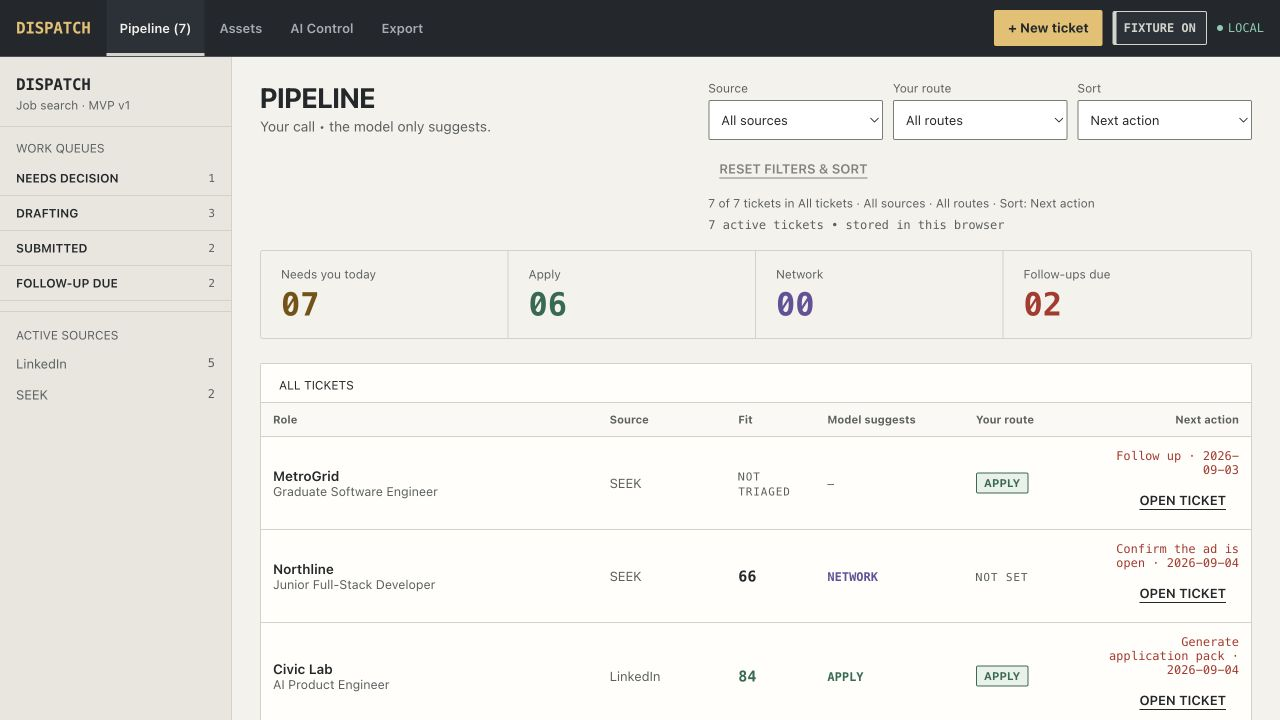
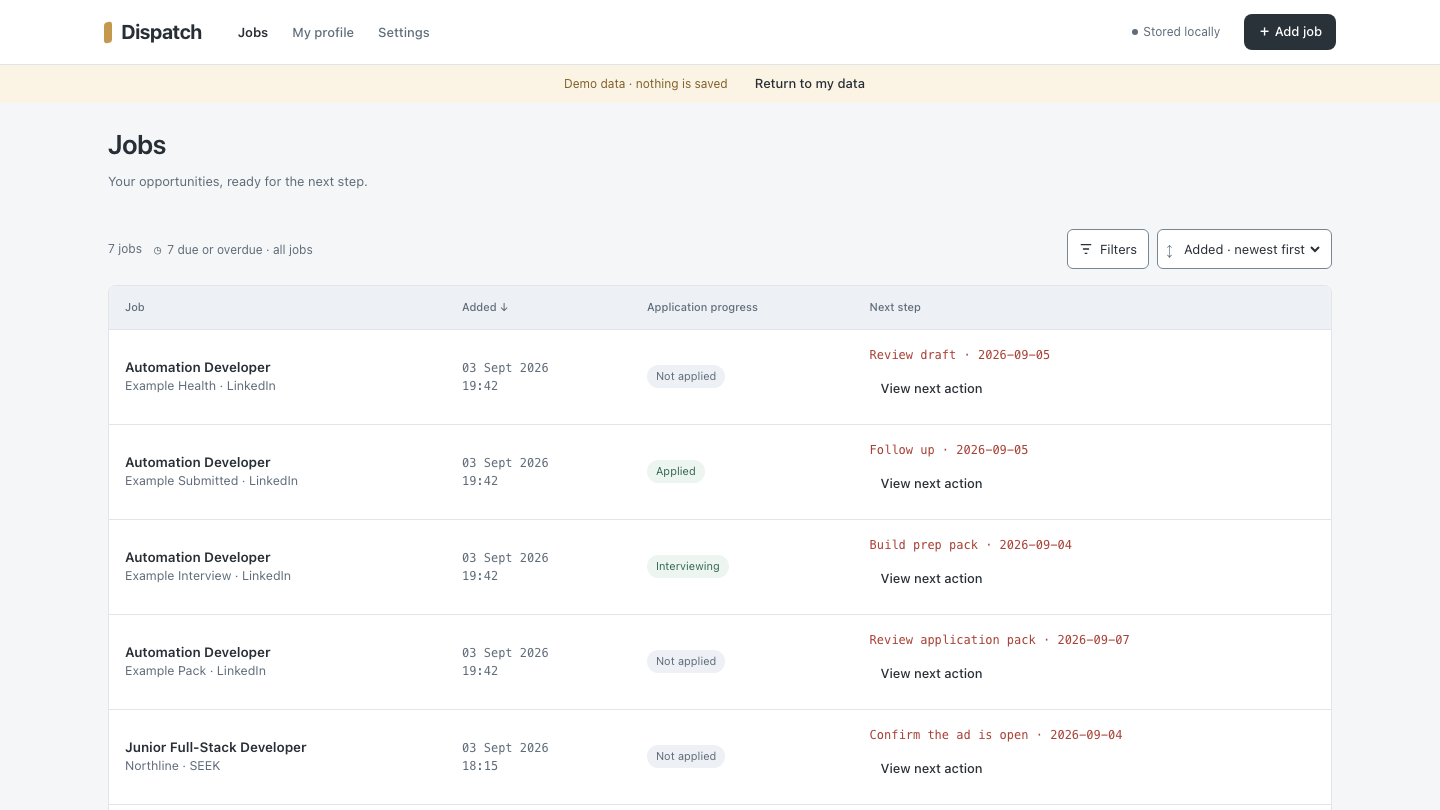
Refresh Dispatch portfolio for typed workspace and UI v1

diff --git a/src/constants/caseStudies.js b/src/constants/caseStudies.js
@@ -17,7 +17,7 @@ export const DISPATCH_CASE_STUDY = {
   ownership: "Built and iterated as a personal project · 2026 · Private source repository",
   metaTitle: "Job Search Dispatch case study | Yuelin Liu",
   metaDescription:
-    "How I connected a browser bridge, evidence-scoped drafting and recoverable model operations into a local job-search workflow, with human review before submission.",
+    "How I evolved a browser bridge and evidence-grounded drafting into a typed local workspace, with configurable model roles and a document-focused review experience.",
   canonical: `${SITE_URL}/work/job-search-dispatch/`,
   sections: [
     {
@@ -26,7 +26,7 @@ export const DISPATCH_CASE_STUDY = {
       heading: "The problem: continuity between finding a job and applying",
       paragraphs: [
         "A job-search workflow crosses several disconnected surfaces: the job board, a record of past work, a model conversation, an application draft and a follow-up list. The difficult part is carrying the right facts and decisions between them without losing the original ad or letting a fluent draft overstate the applicant's experience.",
-        "I developed Job Search Dispatch from an AI-generated React MVP into an integrated local application. The work spans a Node.js server, a Chrome browser bridge, reusable evidence records, model routing and the review experience. A ticket holds the job, the model's recommendation, the applicant's decision and the resulting materials together.",
+        "I developed Job Search Dispatch from an AI-generated React MVP into an integrated local application. The current application uses React, Vite and TypeScript, a local Node.js server and a JavaScript Chrome extension. Jobs, My profile and Settings separate daily application work, reusable candidate evidence and model configuration. A ticket keeps the original ad, assessment, application materials and progress together.",
       ],
     },
     {
@@ -43,23 +43,23 @@ export const DISPATCH_CASE_STUDY = {
         },
         {
           step: "02",
-          label: "Separate a recommendation from a decision",
+          label: "Keep recommendations separate from application progress",
           detail:
-            "Triage returns structured job details, fit, gaps and an APPLY, NETWORK or SKIP suggestion using confirmed candidate records. The applicant chooses the route. Pipeline queues surface tickets awaiting a decision, drafts in progress and follow-ups due.",
-          source: "Confirmed evidence → model suggestion → human route choice",
+            "Triage returns structured job details, fit, gaps and a route suggestion using confirmed candidate records. The Jobs list follows original creation order and shows actual application progress with a contextual Continue action. Source and progress filters narrow the list; drafting no longer requires a separate APPLY decision.",
+          source: "Confirmed evidence → assessment → applicant-controlled progress",
         },
         {
           step: "03",
           label: "Draft with evidence, then check the result",
           detail:
-            "Application drafting uses confirmed evidence explicitly allowed for that purpose. The cover-letter writer is followed by a separate verifier call and deterministic validation. A hard validation failure permits one targeted repair; a result that still fails is not saved as the new letter.",
-          source: "Writer → verifier → validation → at most one repair",
+            "Application drafting uses confirmed evidence explicitly allowed for that purpose. Writer only is the default and must pass deterministic hard checks. An optional Verifier adds a model review; with Repair also enabled, a hard verifier failure permits at most one targeted repair. A result that still fails is not saved as the new letter.",
+          source: "Writer → optional Verifier → validation → optional bounded Repair",
         },
         {
           step: "04",
           label: "Keep the last mile human",
           detail:
-            "The applicant can inspect paragraph evidence, edit the letter, review model-call details and copy clean text. Submission stays manual. The workspace keeps the ticket and next action available for the follow-up.",
+            "The letter opens as a continuous document. Selecting a paragraph reveals its cited evidence; a separate editor saves changes, and run details expose the model calls and available cost estimates. The applicant reviews and copies clean text for manual submission, then records progress and reminders in the same ticket.",
           source: "Review → edit → copy → manual submission",
         },
       ],
@@ -86,10 +86,20 @@ export const DISPATCH_CASE_STUDY = {
         {
           decision: "Treat model calls as operations that can fail",
           reason:
-            "Stage and trace diagnostics, server-owned deadlines and cancellation make a long-running call inspectable. Failed or cancelled attempts preserve existing work. Writer, verifier and optional repair receipts explain which calls ran and what cost information is available.",
+            "Stage and trace diagnostics, server-owned deadlines and cancellation make a long-running call inspectable. Failed or cancelled attempts preserve existing work. Writer and any enabled Verifier or Repair receipts explain which calls ran and what cost information is available. Effective routes are validated before drafting and frozen for the run.",
           tradeoff:
-            "A successful cover-letter run uses two model calls, or three with repair. The fixed Anthropic review route requires its own credential even when the writer uses a custom provider; available cost figures are estimates rather than invoices.",
+            "Writer only uses one model call; an enabled Verifier adds a second and conditional Repair can add a third. Roles can follow the preceding route or use their own configured provider. Extra review costs time and tokens, and displayed costs remain estimates rather than invoices.",
         },
+      ],
+    },
+    {
+      kind: "prose",
+      id: "workspace-evolution",
+      heading: "Evolving the workspace without losing saved work",
+      paragraphs: [
+        "I migrated the no-build prototype to a bundled Vite frontend and strict TypeScript across the application and server, with shared Zod boundary contracts. Feature modules, state owners and persistence adapters now have separate responsibilities. Existing browser storage keys, saved routes and unknown fields remain compatible; the extension stays JavaScript.",
+        "The new interface reduces daily work to Jobs, My profile and Settings. Each ticket has Overview, Cover letter, Application pack and Progress & notes. Reading a letter is separate from editing it, and paragraph evidence stays within reach. Provider credentials and model routing have separate settings pages, while returning to Jobs restores focus without reordering the applicant's records.",
+        "The migration preserves the local data model rather than introducing cloud sync. Production startup checks that the bundled output matches its source and rejects missing or stale builds. Profile writes are serialized within a session, but separate browser windows can still overwrite whole-profile snapshots.",
       ],
     },
     {
@@ -98,8 +108,8 @@ export const DISPATCH_CASE_STUDY = {
       heading: "A concrete iteration: whose number is it?",
       paragraphs: [
         "A job ad can contain numbers that say nothing about the applicant's achievements. The numeric check needed to distinguish a number present in the ad from one supported by the evidence cited in a letter paragraph. I tightened the check so numeric support comes from that paragraph's cited, confirmed application-draft evidence claims, rather than the job description or unrelated profile text.",
-        "I also made a failed generation explain its stage and blocking checks instead of leaving the user with a generic failure. Numeric findings identify the paragraph, sentence and unsupported token while keeping the previous saved letter intact. Regression cases cover the source boundary and the failure diagnostics.",
-        "This remains a deterministic token check, not a proof of meaning: finding the same number in an eligible claim does not establish that a generated sentence describes it correctly. That distinction is why the verifier and human review remain part of the workflow.",
+        "I extended percentage checks to require the same quantity and unit in cited evidence: percent and percentage points are distinct, and a bare number cannot support a percentage claim. I also made a failed generation explain its stage and blocking checks instead of leaving the user with a generic failure. Numeric findings identify the paragraph, sentence and unsupported token while keeping the previous saved letter intact. Regression cases cover the source boundary and the failure diagnostics.",
+        "This remains a deterministic token check, not a proof of meaning: finding the same number in an eligible claim does not establish that a generated sentence describes it correctly. The optional Verifier can add another review, but final human review remains necessary.",
       ],
     },
     {
@@ -118,8 +128,9 @@ export const DISPATCH_CASE_STUDY = {
       id: "verification",
       heading: "What I verified",
       paragraphs: [
-        "For this case study, I ran npm run verify against an isolated copy of the committed source on 8 September 2026: all 210 deterministic tests passed. The suite covers evidence eligibility, provider routing, cancellation and timeout behavior, cover-letter validation, failure receipts and fixture isolation.",
-        "The portfolio screenshot shows the running application's built-in synthetic fixture data. Its example companies, ticket counts and fit scores illustrate the interface; they are not real applications or outcome metrics. Fixture mode prevents model calls and persistent writes.",
+        "For this refresh, I ran npm run verify against an isolated copy of the committed source on 17 September 2026: strict type checking, JavaScript syntax checks and all 371 deterministic tests passed. The production Vite build also passed. Coverage includes evidence eligibility, configurable model roles, percentage support, persistence, cancellation, diagnostics and fixture isolation.",
+        "I also ran the current UI journeys against the production bundle at 1440, 390 and 320 pixels. All three passed, covering navigation, paragraph evidence, edits surviving refresh, reminders, profile and settings surfaces with synthetic data and no live model calls.",
+        "The portfolio screenshot shows the running application's built-in synthetic fixture data. Its example companies, ticket counts and application statuses illustrate the interface; they are not real applications or outcome metrics. Fixture mode prevents model calls and persistent writes.",
       ],
     },
     {
@@ -130,7 +141,7 @@ export const DISPATCH_CASE_STUDY = {
         "This is a personal local application with a private source repository. No user-adoption, interview-conversion or time-saved result is claimed.",
         "The verification above does not establish live model quality or re-test SEEK and LinkedIn extraction against current job-board pages. Provider responses and page structures can change.",
         "Later human edits are not semantically re-verified. Every final claim still needs review before the applicant uses it.",
-        "There is no automatic submission, cloud sync or résumé upload/parser workflow. React and Babel load from a CDN, so the no-build local runner still needs internet access.",
+        "There is no automatic submission, cloud sync or résumé upload/parser workflow. The frontend is bundled locally with Vite; model calls and URL ingestion still require network access. The separate Profile v2 experiment remains parked and does not feed drafting.",
       ],
     },
   ],

diff --git a/src/constants/constants.js b/src/constants/constants.js
@@ -29,7 +29,7 @@ export const HOW_I_BUILD = {
         "I turn an unclear problem into a concrete working flow before adding abstraction, polish or extra infrastructure.",
       evidence: [
         "Built prospective-client prototypes for a specialty coffee retailer and a drone training provider from informal business briefs.",
-        "Connected job capture, evidence-based triage, application drafting and follow-up in Job Search Dispatch, keeping the applicant in control of the route and submission.",
+        "Connected job capture, evidence-based triage, document review and follow-up in Job Search Dispatch, with saved application progress and manual submission.",
       ],
     },
     {

diff --git a/src/constants/projects.js b/src/constants/projects.js
@@ -17,10 +17,10 @@ export const PROJECTS = [
     },
     ownership: DISPATCH_CASE_STUDY.ownership,
     implementation:
-      "Connects an open-tab browser bridge, scoped evidence, multi-model drafting and failure recovery in one local workflow.",
+      "Rebuilt with Vite and TypeScript: browser capture, evidence-linked letter review and configurable Writer, Verifier and Repair roles.",
     caseStudyHref: caseStudyHref(DISPATCH_CASE_STUDY.slug),
     technologies: {
-      main: ["React", "Node.js", "Chrome Extension", "LLM APIs"],
+      main: ["React / Vite", "TypeScript", "Node.js", "LLM APIs"],
     },
     year: "2026",
   },

diff --git a/docs/DISPATCH_CASE_STUDY_EVIDENCE.md b/docs/DISPATCH_CASE_STUDY_EVIDENCE.md
@@ -1,65 +1,78 @@
 # Job Search Dispatch portfolio evidence
 
-Reviewed 8 September 2026. Placement: first in Selected Work, a dedicated
+Reviewed 17 September 2026. Placement: first in Selected Work, a dedicated
 `/work/job-search-dispatch/` case study, and two evidence examples in How I Build.
-Employment history is unchanged because this is a personal project.
 
 ## Source boundary
 
-Repository: `liuyuelintop/job-search-dispatch-browser-bridge` (private, confirmed
-through GitHub). Local HEAD and GitHub main both resolved to
-`cf4f52f0572d9c240fa13856e0fd454a76c09fe0`.
+Repository: `liuyuelintop/job-search-dispatch-browser-bridge` (private).
+Reviewed local main: `f2a75dd7a077f18d40abcfacbbccefe05cd88067`, the accepted
+Dispatch UI v1 implementation following the Vite/TypeScript migration.
 
-The reviewed source is an isolated `git archive` of that commit. Uncommitted
-percentage-support work in the source checkout is excluded. `PROJECT_STATUS.md`
-predates the newer verifier and numeric-support changes; current committed code
-and `app/README.md` take precedence for those claims. No source-project files were
-changed. The portfolio deliberately emits no private repository CTA.
+The source was exported with `git archive` into an isolated temporary directory.
+Untracked migration bundles, research documents and audit screenshots in the
+user checkout were excluded. No source-project files or personal data changed.
+The current code and accepted UI verification take precedence over stale
+"future UI" wording still present in the source README. The public portfolio
+emits no private repository CTA.
 
-Paths below refer to that source commit. Reviewers with repository access can
-inspect the [pinned tree](https://github.com/liuyuelintop/job-search-dispatch-browser-bridge/tree/cf4f52f0572d9c240fa13856e0fd454a76c09fe0).
+Paths below refer to the [pinned source tree](https://github.com/liuyuelintop/job-search-dispatch-browser-bridge/tree/f2a75dd7a077f18d40abcfacbbccefe05cd88067), accessible only to repository collaborators.
 
 | Portfolio claim | Source files |
 | --- | --- |
-| Developed from an AI-generated React MVP; local runner with CDN React/Babel | `app/README.md`, `app/index.html` |
-| Matching open-tab SEEK capture; public LinkedIn request and bridge fallback; no crawling or submission | `app/extension/README.md`, `app/extension/manifest.json`, `app/extension/background.js`, `app/extension/job-extractor.js`, `app/server.mjs`, `app/job-search-dispatch.jsx` |
-| Ticket workflow, human route choice, queues, editable letters and manual submission | `app/job-search-dispatch.jsx`, `app/pipeline-attention.test.mjs`, `app/ticket-recovery.test.mjs` |
-| Confirmed and scoped evidence; fragment references and triage-match intersection | `app/evidence-policy.js`, `app/cover-letter-prompt.js`, `app/evidence-policy.test.mjs` |
-| Writer, verifier, deterministic checks, at most one repair, fixed review credential | `app/cover-letter-production.js`, `app/cover-letter-review.js`, `app/cover-letter-production.test.mjs` |
-| Numeric support comes from cited paragraph evidence claims, not job-ad numbers; exact token matching is not semantic proof | `app/cover-letter-prompt.js` (`deterministicChecks`), `app/cover-letter-number-support.test.mjs` |
-| Failed-letter stage, blocking checks, numeric sentence findings and previous-letter preservation | `app/cover-letter-diagnostics.js`, `app/cover-letter-diagnostics.test.mjs`, `app/job-search-dispatch.jsx`, `app/failed-receipt.test.mjs` |
-| Server deadlines, upstream cancellation, trace diagnostics | `app/server.mjs`, `app/operation-lifecycle.js`, `app/model-call.test.mjs` |
-| External profile, owner-only storage, backups; browser-local keys and tickets; provider-bound prompts | `app/canonical-assets.mjs`, `app/job-search-dispatch.jsx`, `app/server.mjs`, `app/README.md` |
-| Capped 50-attempt history, no full prompts/keys in records, estimated rather than invoiced costs | `app/generation-log.js`, `app/generation-log.test.mjs`, `app/cover-letter-transparency.test.mjs` |
-| Fixture mode blocks model calls and persistent writes | `app/fixture-data.js`, `app/fixture-isolation.test.mjs`, fixture guards in `app/job-search-dispatch.jsx` |
+| React/Vite frontend, strict TypeScript application/server, JavaScript extension, shared Zod contracts | `app/package.json`, `app/tsconfig.json`, `app/frontend/main.ts`, `app/shared/contracts/`, `app/extension/manifest.json` |
+| Jobs / My profile / Settings; ticket sections and separate document reading/editing | `app/src/shell/App.tsx`, `app/src/features/ticket/Ticket.tsx`, `app/src/features/assets/Assets.tsx`, `docs/verification/ui-v1/README.md` |
+| Creation ordering, progress, contextual continuation, filters and no required APPLY choice | `app/src/features/pipeline/Pipeline.tsx`, `app/src/domain/jobs/pipeline.ts`, `app/pipeline-attention.test.mjs` |
+| Matching open-tab SEEK capture; public LinkedIn request and bridge fallback | `app/extension/README.md`, `app/extension/background.js`, `app/server/fetch-url.ts` |
+| Confirmed, scoped evidence and fragment references | `app/src/domain/evidence/policy.ts`, `app/src/core/cover-letter-prompt.ts`, `app/evidence-policy.test.mjs` |
+| Writer-only default; optional Verifier/Repair, independent role routes, frozen run configuration and at most three calls | `app/src/core/cover-letter-settings.ts`, `app/src/core/cover-letter-production.ts`, `app/src/features/ticket/cover-letter-action.ts`, `app/cover-letter-role-controls.test.mjs` |
+| Numeric and percentage support comes from cited evidence, with quantity/unit matching | `app/src/core/cover-letter-prompt.ts`, `app/cover-letter-number-support.test.mjs`, `app/cover-letter-percent-support.test.mjs` |
+| Failed-generation diagnostics, preserved saved letters, timeout and cancellation | `app/src/core/cover-letter-diagnostics.ts`, `app/src/core/operation-lifecycle.ts`, `app/server/chat.ts`, `app/server/providers.ts`, `app/model-call.test.mjs` |
+| External owner-only profile storage, browser-local tickets/keys, serialized profile writes and persisted compatibility | `app/server/canonical-assets.ts`, `app/src/state/`, `app/src/lib/persistence/`, `app/README.md` |
+| Production startup rejects stale/missing output; no CDN runtime | `app/build-vite.mjs`, `app/vite-build-state.ts`, `app/server/frontend.ts`, `app/frontend/index.html` |
+| Capped 50-attempt history, no prompts/keys in records, estimated costs | `app/src/core/generation-log.ts`, `app/generation-log.test.mjs` |
+| Built-in fixture isolation and visible demo disclosure | `app/src/core/fixture-data.ts`, `app/src/shell/App.tsx`, `app/fixture-isolation.test.mjs` |
 
-## Verification and screenshot
+## Fresh source verification and screenshot
 
-- Ran `npm run verify` in the isolated source snapshot's `app/` directory:
-  **210 tests passed, 0 failed, 0 skipped**. Initial sandboxed execution could not
-  bind loopback test servers; the unrestricted rerun passed.
-- Captured `src/assets/projects/job-search-dispatch.png` from the running snapshot
-  on loopback port 4176 with `?fixture=1&view=pipe`. Used a disposable external data
-  root and an isolated browser. The screenshot retains the visible FIXTURE ON
-  badge; the homepage caption also identifies synthetic data.
-- Screenshot companies, numbers and scores are fixtures, not product results.
-- No provider calls, real application submissions or live SEEK/LinkedIn bridge
-  checks were performed for this portfolio update. No adoption, conversion or
-  time-saving metrics are asserted.
+Executed on the isolated committed snapshot, 17 September 2026:
+
+- `npm run verify`: strict typecheck and 104 JavaScript syntax checks passed;
+  **371 tests passed, 0 failed, 0 skipped, 0 cancelled**.
+- `npm run build`: passed; existing bundle-size advisory remains.
+- `node --test scripts/dispatch-ui-v1.browser.mjs`: **3 passed**, no failures,
+  skips or cancellations, at 1440 / 390 / 320 px. The production-browser harness
+  uses disposable Canonical storage and fictional records; no live model calls.
+- Screenshot `src/assets/projects/job-search-dispatch.png`: freshly captured at
+  1440 × 810 from the production bundle, `?fixture=1&view=pipe`, with a disposable
+  data root and browser context. The visible "Demo data · nothing is saved"
+  banner and homepage caption disclose synthetic data. No fabricated UI or
+  real applicant data is included.
+- Initial sandbox checks could not bind loopback ports; an unrestricted rerun
+  passed. Dependencies were copied into the temporary snapshot before the final
+  checks, avoiding writes to the source checkout's dependency cache.
+
+Logs for this session: `/private/tmp/dispatch-portfolio-refresh/source-verify.log`,
+`source-build.log`, `source-ui.log`, and `capture.log`. These are temporary local
+execution records, not permanent repository artifacts.
+
+No live-provider, live SEEK/LinkedIn extraction, real extension or full source
+release-gate claim is made. No adoption, conversion or time-saving metrics are
+asserted. The separate Profile v2 experiment remains parked.
 
 ## Portfolio verification
 
 - `npm run lint`: passed with zero warnings.
-- `npm run verify` / default `npm run build`: Turbopack failed while binding a
-  local port for its CSS worker, including the direct unrestricted retry.
-- `npm run build -- --webpack`: passed; all five case-study routes exported.
-- `npm run verify:static`: passed, including Dispatch's metadata, private-source
-  boundary, synthetic-data disclosure, sitemap and unsupported-claim checks.
-- `npm run verify:journeys`: 23 passed, 3 existing conditional skips. Dispatch is
-  included in no-JavaScript rendering, entry/return navigation and the responsive
-  width matrix.
-- Manual `npm run dev` review: desktop and 390 px homepage/case-study layouts,
-  image loading, case-study entry and return. No horizontal overflow at 390 px.
+- `npm run verify`: lint passed; default Turbopack build hit the existing local
+  CSS-worker port restriction, including with tool escalation.
+- `npm run build -- --webpack`: passed; all five case studies exported.
+- `npm run verify:static`: passed after refreshing the expected Dispatch copy
+  and stack; existing private-source and unsupported-claim guards remain.
+- `npm run verify:journeys`: 23 passed, 3 existing conditional skips.
+- `npm run dev -- --webpack`: inspected the refreshed card and case study at
+  1440 and 390 px. Images loaded, navigation worked, and no horizontal overflow
+  or browser page errors were observed.
 
-No build configuration was changed to work around the Turbopack environment
-failure. This update is local and has not been deployed.
+No build/deployment configuration was changed. The existing GitHub/Vercel
+integration publishes main; GitHub checks and deployment status record the
+cloud result for the resulting portfolio commit.
